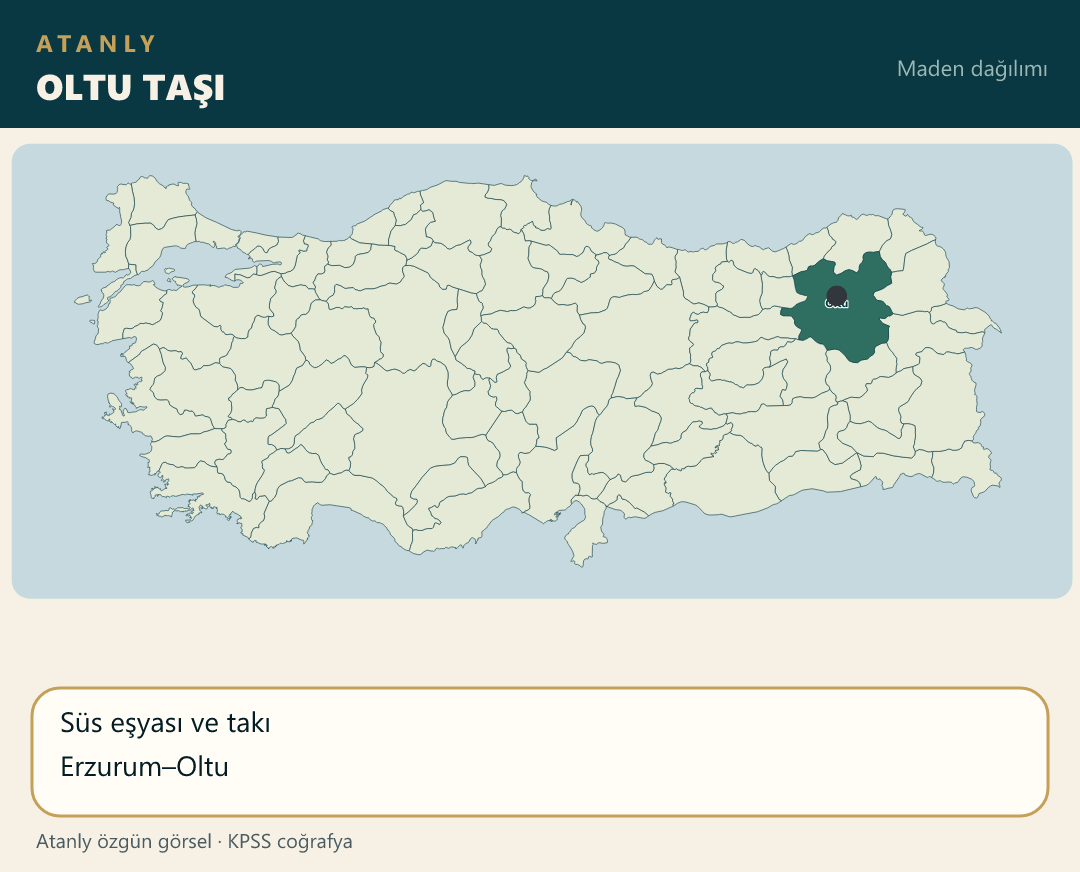
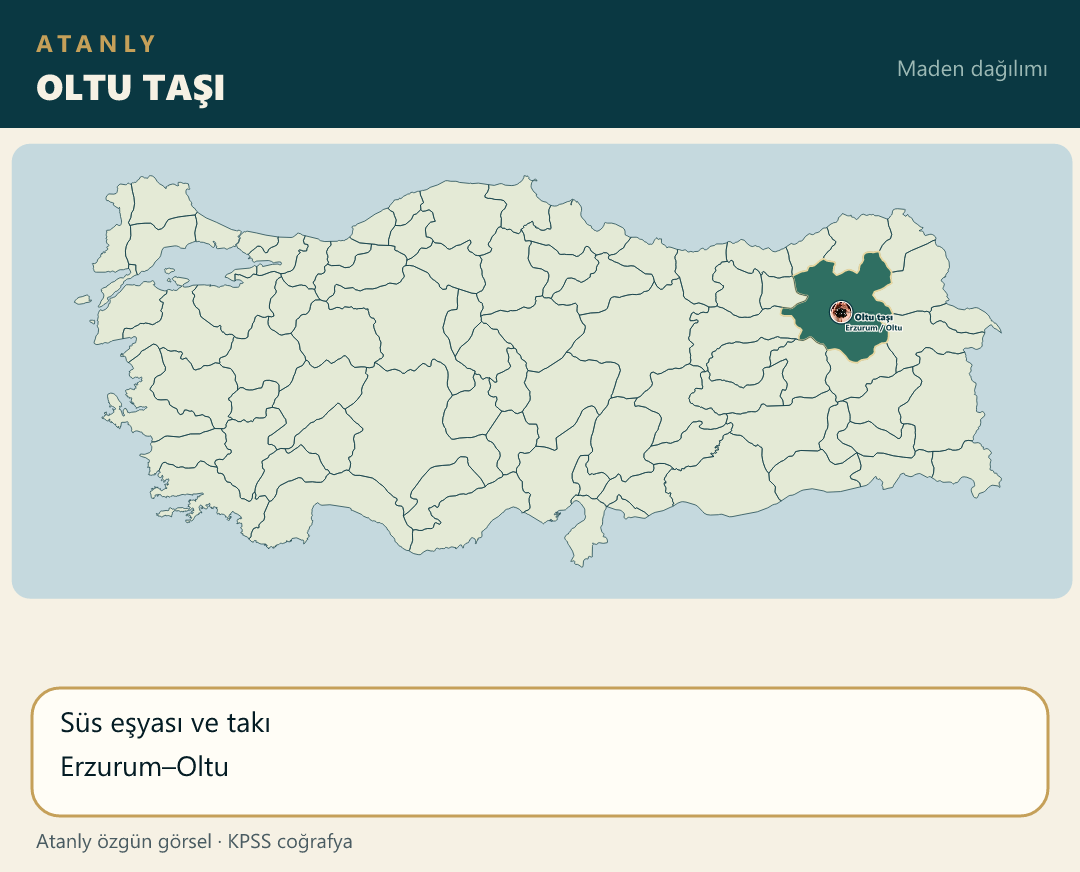
Place the Oltu stone photo on the Erzurum land-center pin.

diff --git a/scripts/build-atanly-maps.js b/scripts/build-atanly-maps.js
@@ -1095,8 +1095,10 @@ function main() {
                 { il: "Elazığ", ldx: 32, ldy: 8 }
             ],
             facts: ["Birlikte çıkarılır"] },
-        { file: "maden_oltu.png", title: "OLTU TAŞI", iller: ["Erzurum"],
-            yazilar: ["Oltu"],
+        { file: "maden_oltu.png", title: "OLTU TAŞI", urun: "Oltu taşı",
+            noktalar: [
+                { il: "Erzurum", ilce: "Oltu", ldx: 32, ldy: 8 }
+            ],
             facts: ["Süs eşyası ve takı", "Erzurum–Oltu"] },
         { file: "maden_lule.png", title: "LÜLE TAŞI", urun: "Lüle taşı",
             noktalar: [

diff --git a/notlar/cografya-21-not.js b/notlar/cografya-21-not.js
@@ -2,7 +2,7 @@
 (function () {
     function harita(src, alt) {
         return '<div class="mt-4 overflow-hidden rounded-xl border border-blue-200 dark:border-blue-700/50 bg-white dark:bg-slate-800 p-2">' +
-            '<img src="./src/img/' + src + '?v=30" alt="' + alt + ' Haritası" class="w-full h-auto rounded-lg object-contain" loading="lazy">' +
+            '<img src="./src/img/' + src + '?v=31" alt="' + alt + ' Haritası" class="w-full h-auto rounded-lg object-contain" loading="lazy">' +
             "</div>";
     }
 

diff --git a/index.html b/index.html
@@ -119,7 +119,7 @@
     <script src="notlar/cografya-18-not.js?v=17"></script>
     <script src="notlar/cografya-19-not.js?v=25"></script>
     <script src="notlar/cografya-20-not.js?v=1"></script>
-    <script src="notlar/cografya-21-not.js?v=23"></script>
+    <script src="notlar/cografya-21-not.js?v=24"></script>
     <script src="notlar/cografya-22-not.js?v=1"></script>
     <script src="notlar/cografya-23-not.js?v=1"></script>
     <script src="notlar/cografya-24-not.js?v=1"></script>
